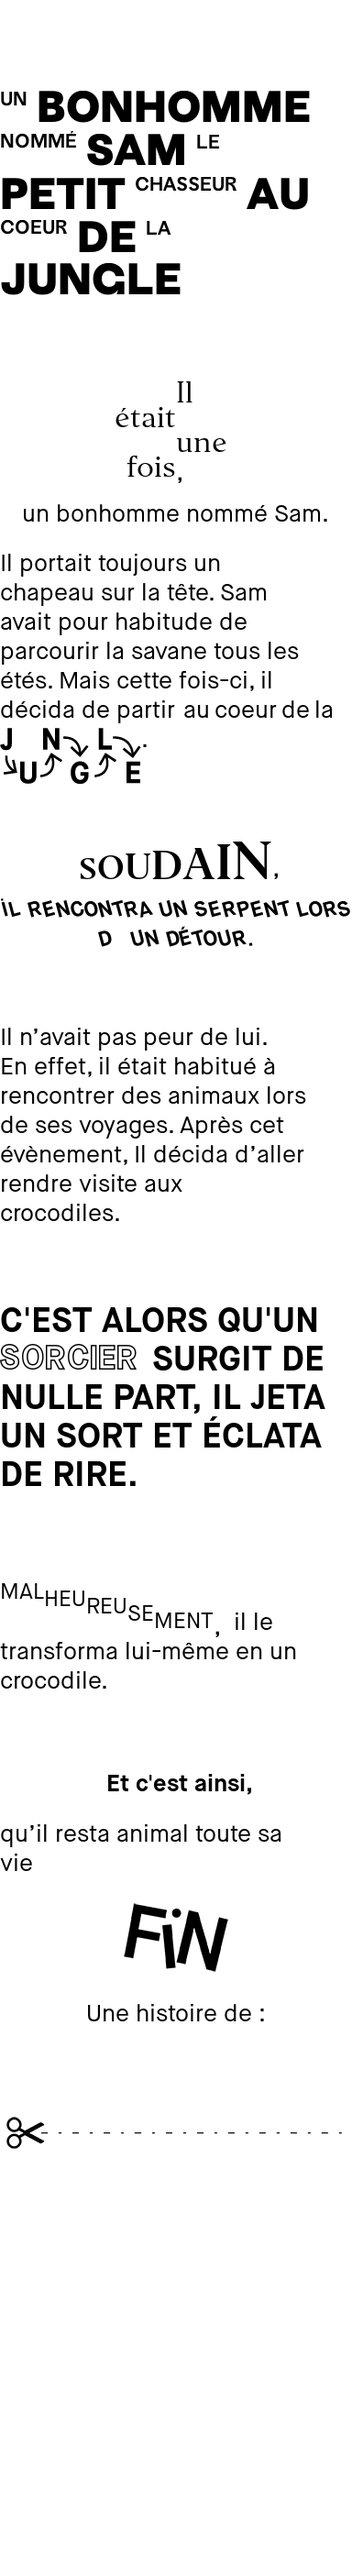
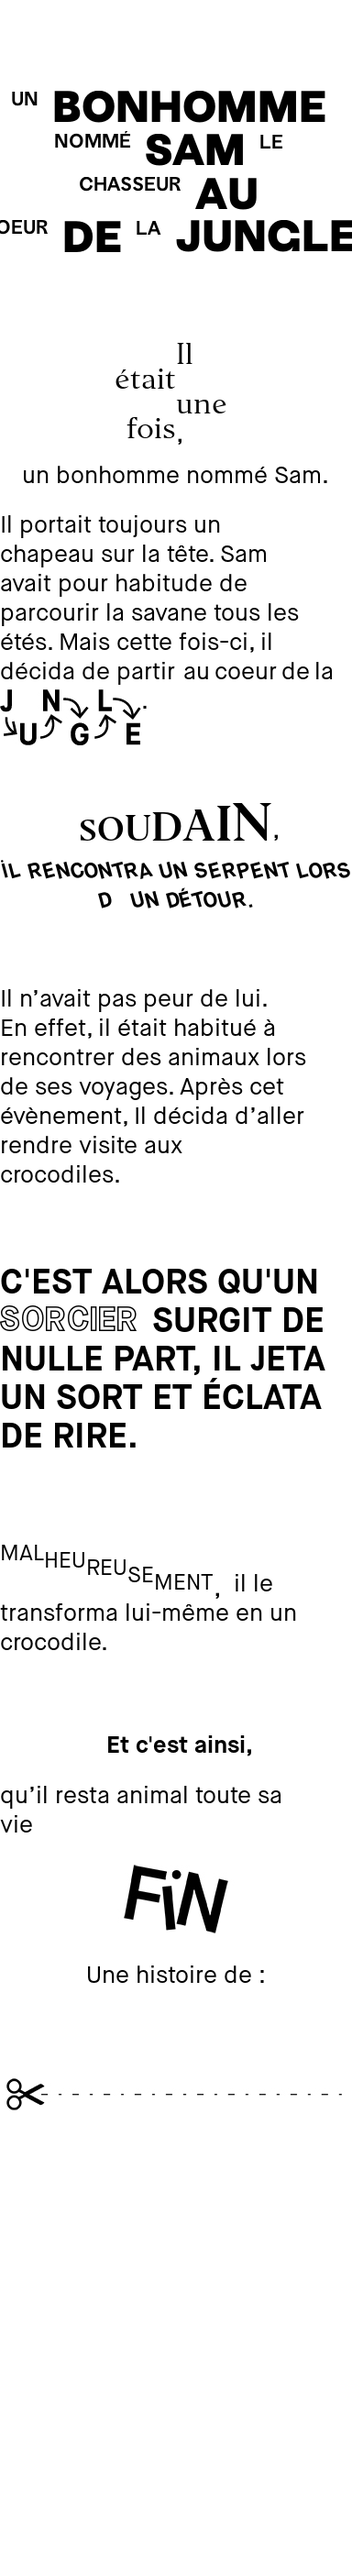
fix(story) : center title

diff --git a/effects.py b/effects.py
@@ -94,10 +94,10 @@ def get_img_height(custom_words, title, story_parts, width, onceupon_effect, top
                 height = imposed_event(width, start_sentence, "plante", top, maison_neue_bold, maison_neue_contour, 28, after_part, spacing, "#000")
 		font_effects_height += height
                     
-##                # get the images height for drawImage
-##                if start_sentence == "Puis":
-##                    img_height = add_image("assets/img/mountains.jpg", False)
-##                    images_height += img_height
+                # get the images height for drawImage
+                if start_sentence == "Puis":
+                    img_height = add_image("assets/img/mountains.jpg", False)
+                    images_height += img_height
                     
             #rest of the sentence
             end_sentence = story_part[end + 1:len(story_part)].strip()
@@ -160,30 +160,77 @@ def two_fonts_title(width, title, regular_font, bold_font, spacing, text_color, 
     while i < len(title_parts):
         
         title_parts[i] = title_parts[i].upper()
+        
         if i % 2 == 0:
             word_width, word_height = text_proto_regular.getsize(title_parts[i])
         else:
             word_width, word_height = text_proto_bold.getsize(title_parts[i])
-        
-        
+    
         if left + word_width < width:
-            if i % 2 == 0:
-                if context : context.text((left, top), title_parts[i], fill=text_color, font=text_proto_regular) # draw text
-            else :
-                if context : context.text((left, top), title_parts[i], fill=text_color, font=text_proto_bold) # draw text
+            line_words.append(title_parts[i])
             left += word_width + 10
 
         else:
-            top += spacing + 15
-            effect_height += spacing + 10
+            
+            line_left = 0
+            print line_words
+            for index, word in enumerate(line_words):
+                if index % 2 == 0:
+                    word_width, word_height = text_proto_regular.getsize(word)
+                    line_left += word_width + 15 
+                else :
+                    word_width, word_height = text_proto_bold.getsize(word)
+                    line_left += word_width + 15 
+            
+            center_left = (width - line_left) / 2
+            for index, word in enumerate(line_words):
+                if index % 2 == 0:
+                    word_width, word_height = text_proto_regular.getsize(word)
+                    if context : context.text((center_left, top), word, fill=text_color, font=text_proto_regular) # draw text
+                    center_left += word_width + 15 
+                else :
+                    word_width, word_height = text_proto_bold.getsize(word)
+                    if context : context.text((center_left, top), word, fill=text_color, font=text_proto_bold) # draw text
+                    center_left += word_width + 15
+            
+            line_words = []
+            line_words.append(title_parts[i])
             
             left = 0
             if i % 2 == 0:
-                if context : context.text((left, top), title_parts[i], fill=text_color, font=text_proto_regular) # draw text
+                word_width, word_height = text_proto_regular.getsize(title_parts[i])
+                left += word_width + 15 
             else :
-                if context : context.text((left, top), title_parts[i], fill=text_color, font=text_proto_bold) # draw text
-            left += word_width + 10
+                word_width, word_height = text_proto_bold.getsize(title_parts[i])
+                left += word_width + 15 
+            #left = 0
+            
+            top += spacing + 15
+            effect_height += spacing + 10
         
+        if i == len(title_parts) -1 :
+            
+            line_left = 0
+            print line_words
+            for index, word in enumerate(line_words):
+                if index % 2 == 0:
+                    word_width, word_height = text_proto_regular.getsize(word)
+                    line_left += word_width + 15 
+                else :
+                    word_width, word_height = text_proto_bold.getsize(word)
+                    line_left += word_width + 15 
+            
+            center_left = (width - line_left) / 2
+            for index, word in enumerate(line_words):
+                if index % 2 == 0:
+                    word_width, word_height = text_proto_regular.getsize(word)
+                    if context : context.text((center_left, top), word, fill=text_color, font=text_proto_regular) # draw text
+                    center_left += word_width + 15 
+                else :
+                    word_width, word_height = text_proto_bold.getsize(word)
+                    if context : context.text((center_left, top), word, fill=text_color, font=text_proto_bold) # draw text
+                    center_left += word_width + 15
+            
         i += 1
     
     effect_height += 60

diff --git a/webserver.py b/webserver.py
@@ -70,7 +70,7 @@ def run(server_class=HTTPServer, handler_class=Server):
         filename = paper.filename
         fileformat = paper.fileformat
         
-        title = "Un bonhomme nommé Sam le petit chasseur au coeur de la jungle"
+        title = "Un bonhomme nommé Sam le chasseur au coeur de la jungle"
         story = "Il était une fois, un bonhomme nommé Sam. Il portait toujours un chapeau sur la tête. Sam avait pour habitude de parcourir la savane tous les étés. Mais cette fois-ci, il décida de partir au coeur de la jungle. @Soudain, il rencontra un serpent lors d’un détour. Il n’avait pas peur de lui. En effet, il était habitué à rencontrer des animaux lors de ses voyages. Après cet évènement, Il décida d’aller rendre visite aux crocodiles. C'est alors qu'un sorcier surgit de nulle part, il jeta un sort et éclata de rire. @Malheureusement, il le transforma lui-même en un crocodile. @Et c'est ainsi qu’il resta animal toute sa vie"
         paper.text_in_img(unicode(title, 'UTF8'), unicode(story, 'UTF8'))
         # os.system('lpr ' + filename + fileformat + '')
